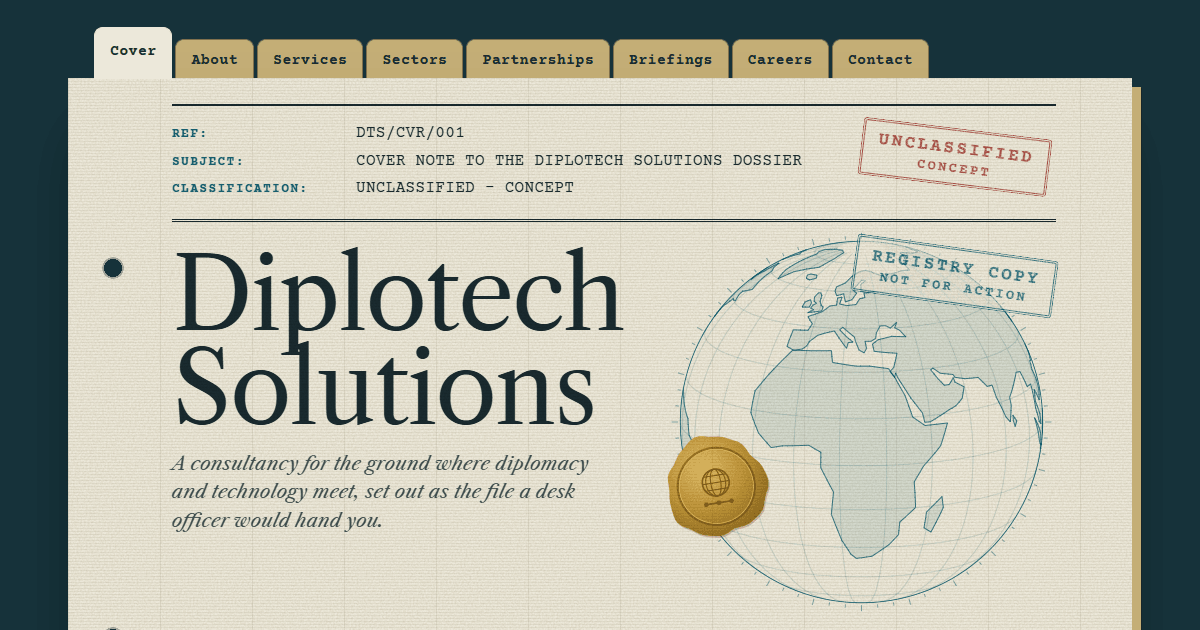
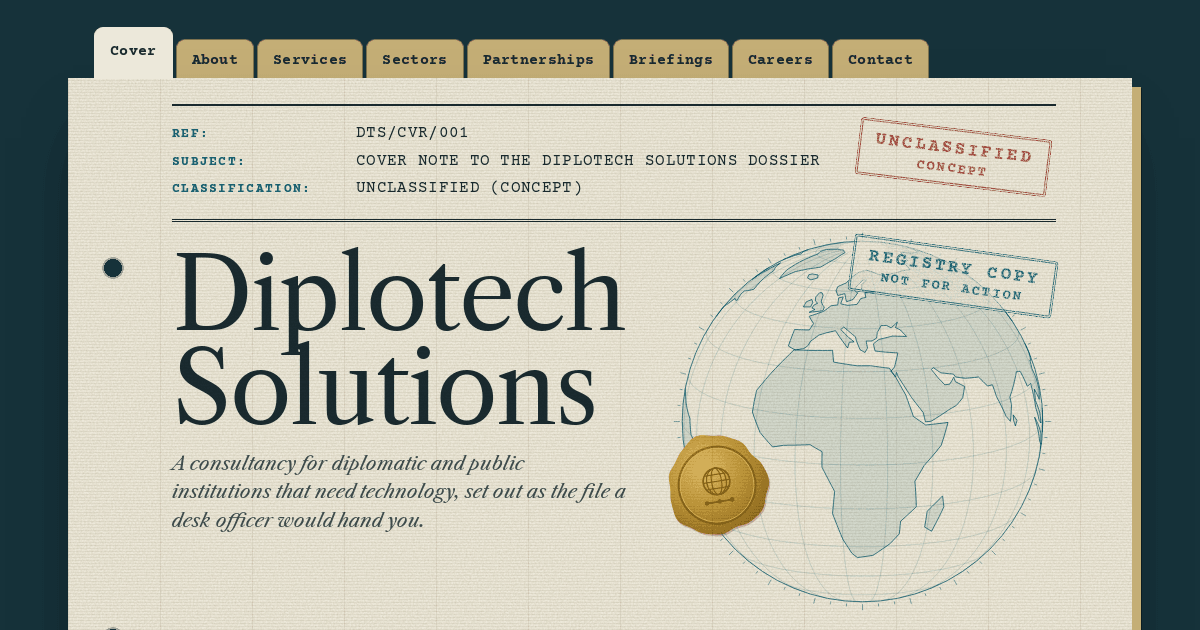
Plain-language copy pass: drop the last dash and stock phrasing
The site should read as if a person wrote it. The routing block still
showed "Unclassified – concept" with a spaced en dash (also baked into
the link-preview image), the description and README leaned on "where
diplomacy meets technology", and "bespoke" recurred across the service
pages. Replace them with plain wording, regenerate og.png from the new
cover, and spell the em-dash check in the content test as — so the
repo itself carries no literal em dash.

Claude-Session: https://claude.ai/code/session_01QfMaGKvVoNtqhRzhBnZEyw

diff --git a/app/services/software-development/page.tsx b/app/services/software-development/page.tsx
@@ -3,7 +3,7 @@ import { Dossier, Enclosure, Ends, Schedule } from '@/components/Dossier'
 export const metadata = {
   title: 'Annex A: Software development and consultancy',
   description:
-    'Annex A of the Diplotech concept: bespoke software and transformation advice for governments and institutions.',
+    'Annex A of the Diplotech concept: custom software and transformation advice for governments and institutions.',
 }
 
 export default function SoftwareDevelopmentPage() {
@@ -19,7 +19,7 @@ export default function SoftwareDevelopmentPage() {
     >
       <h1>Software development and consultancy</h1>
       <p className="standfirst">
-        Bespoke systems for institutions whose work does not fit a product off the shelf, and advice
+        Custom systems for institutions whose work does not fit a product off the shelf, and advice
         on what to build, buy or leave alone.
       </p>
 
@@ -27,7 +27,7 @@ export default function SoftwareDevelopmentPage() {
         <h2 id="deliver">What would be delivered</h2>
         <Schedule
           rows={[
-            { term: 'Bespoke software', detail: 'Applications shaped to the client’s casework and its security requirements.' },
+            { term: 'Custom software', detail: 'Applications shaped to the client’s casework and its security requirements.' },
             { term: 'Systems planning', detail: 'Architecture and sequencing for systems that have to work together.' },
             { term: 'Transformation advice', detail: 'Guidance on modernising systems and the ways of working around them.' },
             { term: 'AI-assisted workflows', detail: 'Automation and decision support, with a named person accountable for each decision.' },
@@ -45,7 +45,7 @@ export default function SoftwareDevelopmentPage() {
             label="Example 1"
             title="Visa processing"
             note="Case handling for consular sections."
-            items={['Bespoke development', 'Security designed in from the start', 'Rules for more than one jurisdiction']}
+            items={['Custom development', 'Security designed in from the start', 'Rules for more than one jurisdiction']}
           />
           <Enclosure
             label="Example 2"

diff --git a/app/layout.tsx b/app/layout.tsx
@@ -26,7 +26,7 @@ const serif = localFont({
 })
 
 const description =
-  'A concept site for a consultancy working where diplomacy meets technology, laid out as a diplomatic dossier. Designed for a prospective client; not a trading company.'
+  'A concept site for a consultancy that would build, staff and support software for ministries, missions and international bodies, laid out as a diplomatic dossier. Designed for a prospective client; not a trading company.'
 
 export const viewport: Viewport = {
   width: 'device-width',

diff --git a/app/page.tsx b/app/page.tsx
@@ -33,8 +33,8 @@ export default function CoverPage() {
             Solutions
           </h1>
           <p className="standfirst">
-            A consultancy for the ground where diplomacy and technology meet, set out as the file a
-            desk officer would hand you.
+            A consultancy for diplomatic and public institutions that need technology, set out as the
+            file a desk officer would hand you.
           </p>
         </div>
 

diff --git a/app/partners/page.tsx b/app/partners/page.tsx
@@ -19,7 +19,7 @@ const KINDS = [
       {
         title: 'Integrators',
         note: 'For joint delivery of larger systems.',
-        items: ['Systems integration', 'Bespoke development capacity', 'Implementation support'],
+        items: ['Systems integration', 'Custom development capacity', 'Implementation support'],
       },
       {
         title: 'Specialist firms',

diff --git a/app/services/page.tsx b/app/services/page.tsx
@@ -10,7 +10,7 @@ export const metadata = {
 
 const CAPABILITIES: Record<string, string[]> = {
   'software-development': [
-    'Bespoke software for complicated casework',
+    'Custom software for complicated casework',
     'Systems planning and transformation advice',
     'AI-assisted workflows and decision support',
     'Reporting tools and process design',

diff --git a/components/Dossier.tsx b/components/Dossier.tsx
@@ -118,7 +118,7 @@ export function Dossier({
               </div>
               <div>
                 <dt>Classification</dt>
-                <dd>Unclassified &ndash; concept</dd>
+                <dd>Unclassified (concept)</dd>
               </div>
             </dl>
             <Stamp lines={['Unclassified', 'Concept']} className="routing__stamp" />

diff --git a/lib/site.ts b/lib/site.ts
@@ -35,7 +35,7 @@ export const SERVICES = [
     annex: 'A',
     title: 'Software development and consultancy',
     short: 'Software',
-    line: 'Bespoke systems and advice on how to plan, buy and run them.',
+    line: 'Custom systems and advice on how to plan, buy and run them.',
   },
   {
     slug: 'it-recruitment',

diff --git a/README.md b/README.md
@@ -1,7 +1,7 @@
 # Diplotech Solutions (concept site)
 
-A website concept for a consultancy working where diplomacy meets technology, laid out as a
-diplomatic dossier: a folder with tabbed dividers, and one typewritten cable per page.
+A website concept for a consultancy that would build, staff and support software for ministries,
+missions and international bodies, laid out as a diplomatic dossier: a folder with tabbed dividers, and one typewritten cable per page.
 
 It was designed for a prospective client who did not go ahead. **Diplotech Solutions is not a
 trading company.** The site says so at the top of every page.
